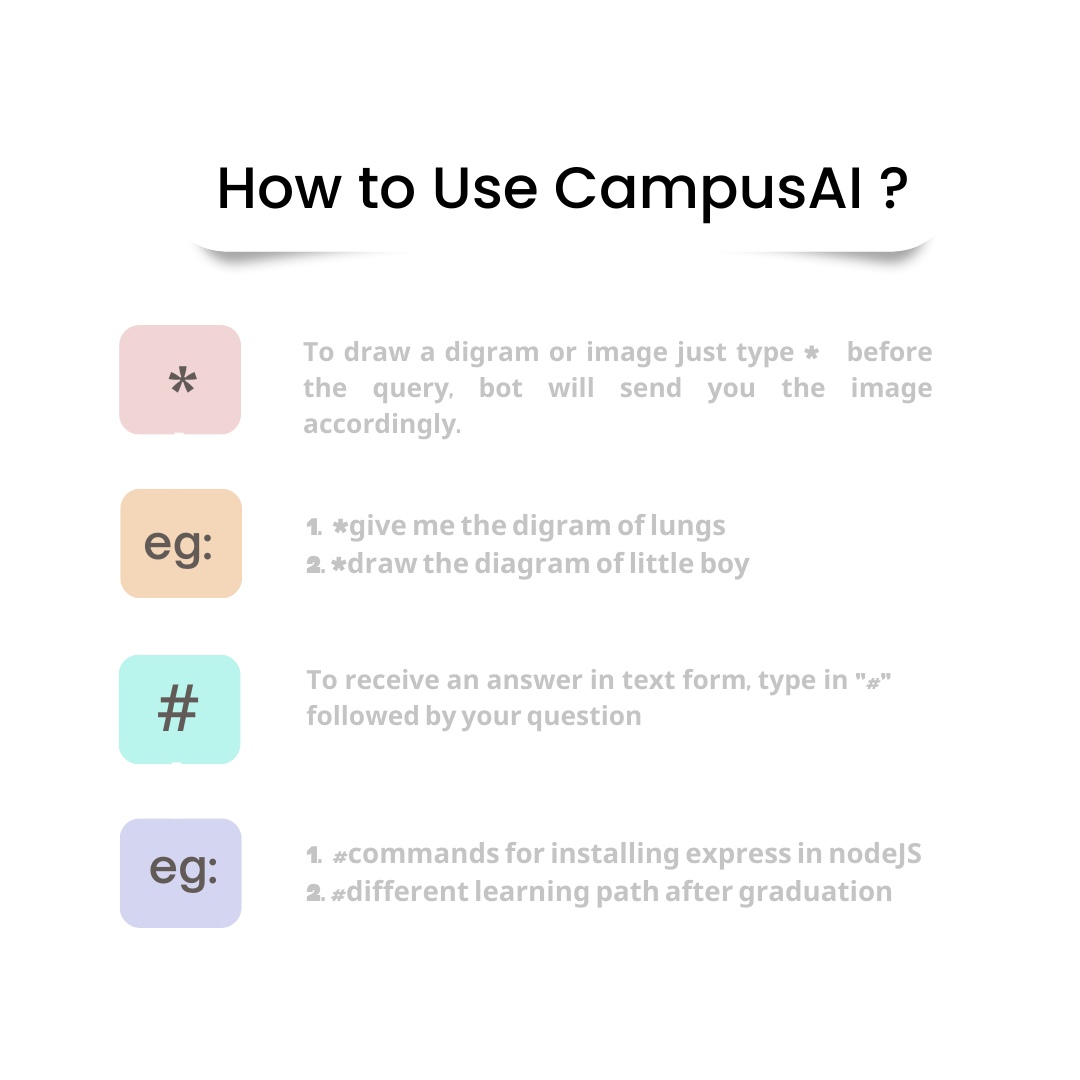
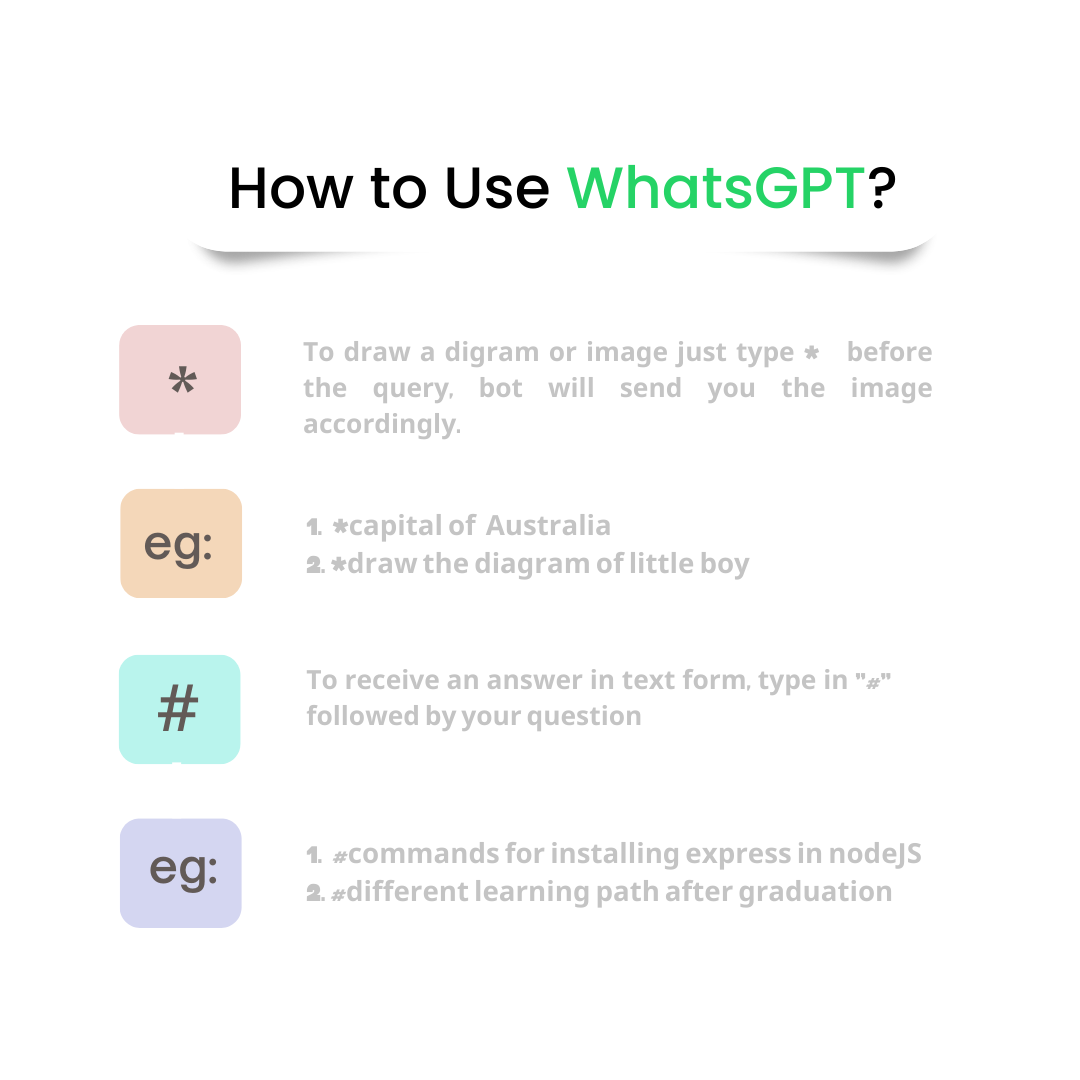
1st commit

Changed region(s): [[0.1833, 0.1528, 0.8556, 0.2139], [0.3361, 0.4583, 0.55, 0.5194], [0.5806, 0.4583, 0.6722, 0.5194]]

diff --git a/src/components/Hero.jsx b/src/components/Hero.jsx
@@ -8,14 +8,14 @@ const Hero = () => {
       <div className={`flex-1 ${styles.flexStart} flex-col xl:px-0 sm:px-16 px-6`}>
         <div className="flex flex-row items-center py-[6px] px-4 bg-discount-gradient rounded-[10px] mb-2">
           <img src={discount} alt="discount" className="w-[32px] h-[32px]" />
-          <p className="text-slate-300">Empowering Learning through Technology
+          <p className="text-slate-300">Empowering Interactions through Technology
           </p>
         </div>
 
-        <div className="flex flex-row justify-between items-center w-full">
+        <div className="flex flex-row  justify-between items-center w-full">
           <h1 className="flex-1 font-poppins font-semibold ss:text-[72px] text-[52px] text-white ss:leading-[100.8px] leading-[75px]">
-            CampusAi -<br className="sm:block hidden" />{" "}
-            <span className="text-gradient md:text-6xl sm:text-5xl	">Educational Chatbot Integration</span>{" "}
+            WhatsGPT -<br className="sm:block hidden" />{" "}
+            <span className="text-gradient md:text-6xl sm:text-5xl	">Your AI Assistant on WhatsApp</span>{" "}
           </h1>
 
         </div>
@@ -24,13 +24,13 @@ const Hero = () => {
 
         </h1>
         <p className={`${styles.paragraph} max-w-[470px] mt-5`}>
-          Unlock Learning Opportunities on WhatsApp with Our Educational Chatbot Integration
+        Transform your WhatsApp chats with the addition of AI - Say goodbye to repetitive conversations & hello to  interactive discussions.
         </p>
         <div >
           {/* <GetStarted /> */}
           <a href='https://wa.link/yqgz7h' target="_blank">
 
-            <button type="button" className="text-black pt-3 pb-3 mt-6 bg-white via-cyan-500 to-cyan-600 hover:bg-gray-400 focus:ring-4 focus:outline-none focus:ring-cyan-300 dark:focus:ring-cyan-800 font-medium rounded-lg text-sm px-5 py-2.5 text-center mr-2 mb-2">Connect to Our Educational Bot</button>
+            <button type="button" className="text-black pt-3  pb-3 mt-6 bg-white via-cyan-500 to-cyan-600 hover:bg-gray-400 focus:ring-4 focus:outline-none focus:ring-cyan-300 dark:focus:ring-cyan-800 font-medium rounded-lg text-sm px-5 py-2.5 text-center mr-2 mb-2">Connect to WhatsGPT</button>
 
           </a>
 

diff --git a/src/components/CardDeal.jsx b/src/components/CardDeal.jsx
@@ -6,15 +6,15 @@ const CardDeal = () => (
   <section id="docs" className={layout.section}>
     <div className={layout.sectionInfo}>
       <h2 className={styles.heading2}>
-        Getting Started: A Guide to Using Our Educational Bot
+        Getting Started: A Guide to Using Your Bot
       </h2>
       <p className={`${styles.paragraph} max-w-[470px] mt-5`}>
-      Step-by-Step Instructions for Accessing and Navigating Our Educational Bot
+      Step-by-Step Instructions for Accessing and Navigating WhatsGPT
 
 
       </p>
       <a href="https://wa.link/yqgz7h" target="_blank">
-        <button type="button" class="text-white bg-gradient-to-r mt-6 from-cyan-400 via-cyan-500 to-cyan-600 hover:bg-gradient-to-br focus:ring-4 focus:outline-none focus:ring-cyan-300 dark:focus:ring-cyan-800 font-medium rounded-lg text-sm px-5 py-2.5 text-center mr-2 mb-2">Connect with CampusAi </button>
+        <button type="button" class="text-white bg-gradient-to-r mt-6 from-cyan-400 via-cyan-500 to-cyan-600 hover:bg-gradient-to-br focus:ring-4 focus:outline-none focus:ring-cyan-300 dark:focus:ring-cyan-800 font-medium rounded-lg text-sm px-5 py-2.5 text-center mr-2 mb-2">Connect with WhatsGPT </button>
       </a>
 
     </div>

diff --git a/src/components/Business.jsx b/src/components/Business.jsx
@@ -25,10 +25,10 @@ const Business = () => (
         Discover the Simplicity <br className="sm:block hidden" />  and Convenience of Our Bot's Information Access
       </h2>
       <p className={`${styles.paragraph} max-w-[470px] mt-5`}>
-        Our Educational Bot allows you to access a wealth of information right from your WhatsApp chatbox. No need to go through the hassle of searching on google or other platforms.
+      Get immediate and accurate answers to your questions with WhatspGPT. Say goodbye to wait time and hello to real-time conversations.
       </p>
 <a href="https://wa.link/yqgz7h" target="_blank"> 
-      <button type="button" class="text-white bg-gradient-to-r mt-6 from-cyan-400 via-cyan-500 to-cyan-600 hover:bg-gradient-to-br focus:ring-4 focus:outline-none focus:ring-cyan-300 dark:focus:ring-cyan-800 font-medium rounded-lg text-sm px-5 py-2.5 text-center mr-2 mb-2">Start Exploring</button>
+      <button type="button" class="text-white bg-gradient-to-r mt-6 from-cyan-400 via-cyan-500 to-cyan-600 hover:bg-gradient-to-br focus:ring-4 focus:outline-none focus:ring-cyan-300 dark:focus:ring-cyan-800 font-medium rounded-lg text-sm px-5 py-2.5 text-center mr-2 mb-2">Start Chatting</button>
 
 </a>
 

diff --git a/src/components/Footer.jsx b/src/components/Footer.jsx
@@ -12,7 +12,7 @@ const Footer = () => (
           className="w-[266px] h-[72.14px] object-contain"
         />
         <p className={`${styles.paragraph} ml-12 mt-4 max-w-[312px]`}>
-          Unlocking Knowledge with the Power of AI
+        Experience Seamless Information Access with WhtspGPT, Your Personal Chat Expert.
         </p>
       </div>
 
@@ -40,7 +40,7 @@ const Footer = () => (
 
     <div className="w-full flex justify-between items-center md:flex-row flex-col pt-6 border-t-[1px] border-t-[#3F3E45]">
       <p className="font-poppins font-normal text-center text-[18px] leading-[27px] text-white">
-        Copyright Ⓒ 2023 CampusAI. All Rights Reserved.
+        Copyright Ⓒ 2023 WhatsGPT. All Rights Reserved.
       </p>
 
       <div className="flex flex-row md:mt-0 mt-6">

diff --git a/src/components/Billing.jsx b/src/components/Billing.jsx
@@ -17,7 +17,7 @@ const Billing = () => (
         Utilize the Power of OpenAI to Explore everything from your place
       </h2>
       <p className={`${styles.paragraph} max-w-[470px] mt-5`}>
-        Our bot provides easy access to a wide range of educational resources including images, articles, and more. With just a simple query, you can access the information you need, saving you time and hassle.
+      With the option to receive responses in either text or image format, users have the flexibility to customize their experience to meet their needs. Whether you're looking for quick answers or engaging in conversation, WhtspGPT provides a seamless and reliable solution for all your communication needs.
       </p>
 
       <div className="flex flex-row flex-wrap sm:mt-10 mt-6">

diff --git a/src/components/GetStarted.jsx b/src/components/GetStarted.jsx
@@ -6,7 +6,7 @@ const GetStarted = () => {
   return (
   <div>
   <a href="https://wa.link/yqgz7h" target="_blank">
-        <button type="button" class="text-white bg-gradient-to-r mt-6 from-cyan-400 via-cyan-500 to-cyan-600 hover:bg-gradient-to-br focus:ring-4 focus:outline-none focus:ring-cyan-300 dark:focus:ring-cyan-800 font-medium rounded-lg text-sm px-5 py-2.5 text-center mr-2 mb-2">Connect with CampusAi </button>
+        <button type="button" class="text-white bg-gradient-to-r mt-6 from-cyan-400 via-cyan-500 to-cyan-600 hover:bg-gradient-to-br focus:ring-4 focus:outline-none focus:ring-cyan-300 dark:focus:ring-cyan-800 font-medium rounded-lg text-sm px-5 py-2.5 text-center mr-2 mb-2">Get Started </button>
       </a>
   </div>
   )

diff --git a/src/constants/index.js b/src/constants/index.js
@@ -30,16 +30,16 @@ export const features = [
   {
     id: "feature-2",
     icon: shield,
-    title: "Interactive learning",
+    title: "Flexible Interactions",
     content:
-      "The bot can provide interactive quizzes and exercises to help users test their understanding of the materials.",
+      "Enhance Your Communication Experience with Customizable Text or Image Output Options.",
   },
   {
     id: "feature-3",
     icon: star,
     title: "Available 24/7",
     content:
-      "The bot is available 24/7, providing users with access to information and learning materials at any time.",
+      "The bot is available 24/7, providing users with access to information and resources materials at any time.",
   },
 ];
 

diff --git a/src/components/CTA.jsx b/src/components/CTA.jsx
@@ -5,9 +5,9 @@ import {qr} from "../assets"
 const CTA = () => (
   <section id="scan" className={`${styles.flexCenter} ${styles.marginY} ${styles.padding} sm:flex-row flex-col bg-black-gradient-2 rounded-[20px] box-shadow`}>
     <div className="flex-1 flex flex-col">
-      <h2 className={styles.heading2}>Scan and Connect to Our <br></br> Educational Bot on WhatsApp!</h2>
+      <h2 className={styles.heading2}>Scan and Connect to Your <br></br> Personal Bot on WhatsApp!</h2>
       <p className={`${styles.paragraph} max-w-[470px] mt-5`}>
-        Scan the QR or use the links mentioned above to use the CampusAI
+        Scan the QR or use the links mentioned above to use the WhatsGPT
       </p>
     </div>
 
